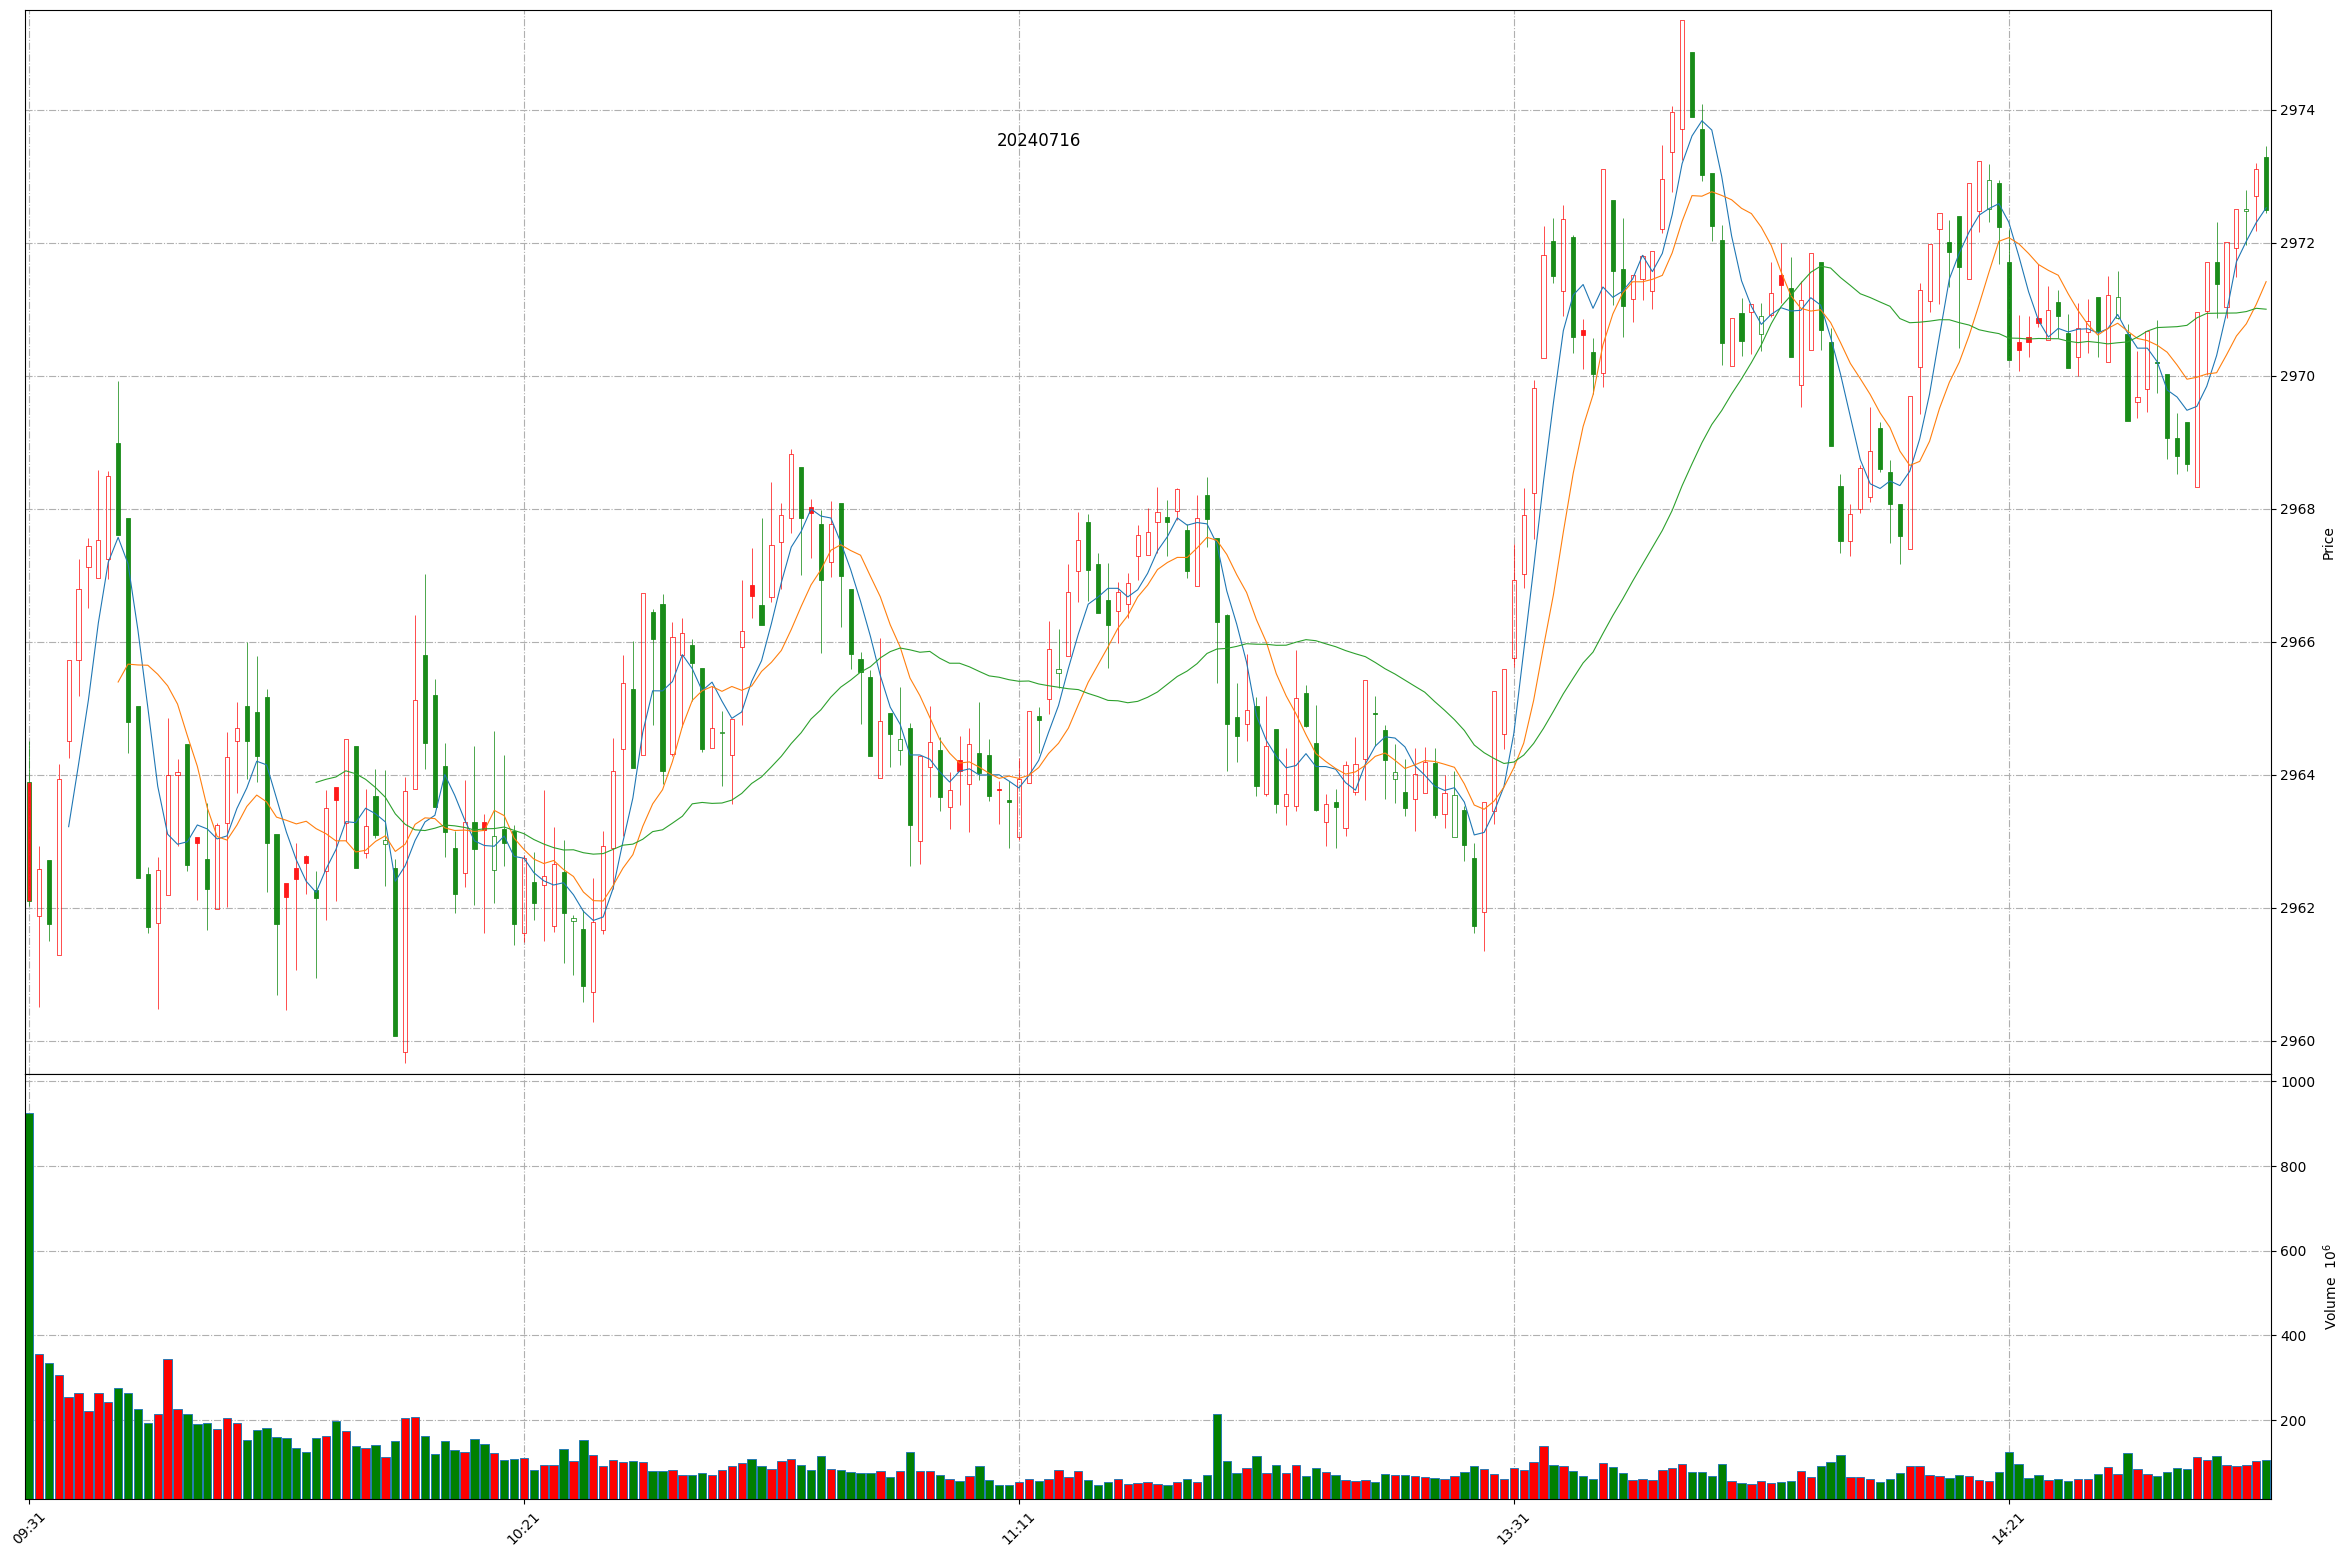
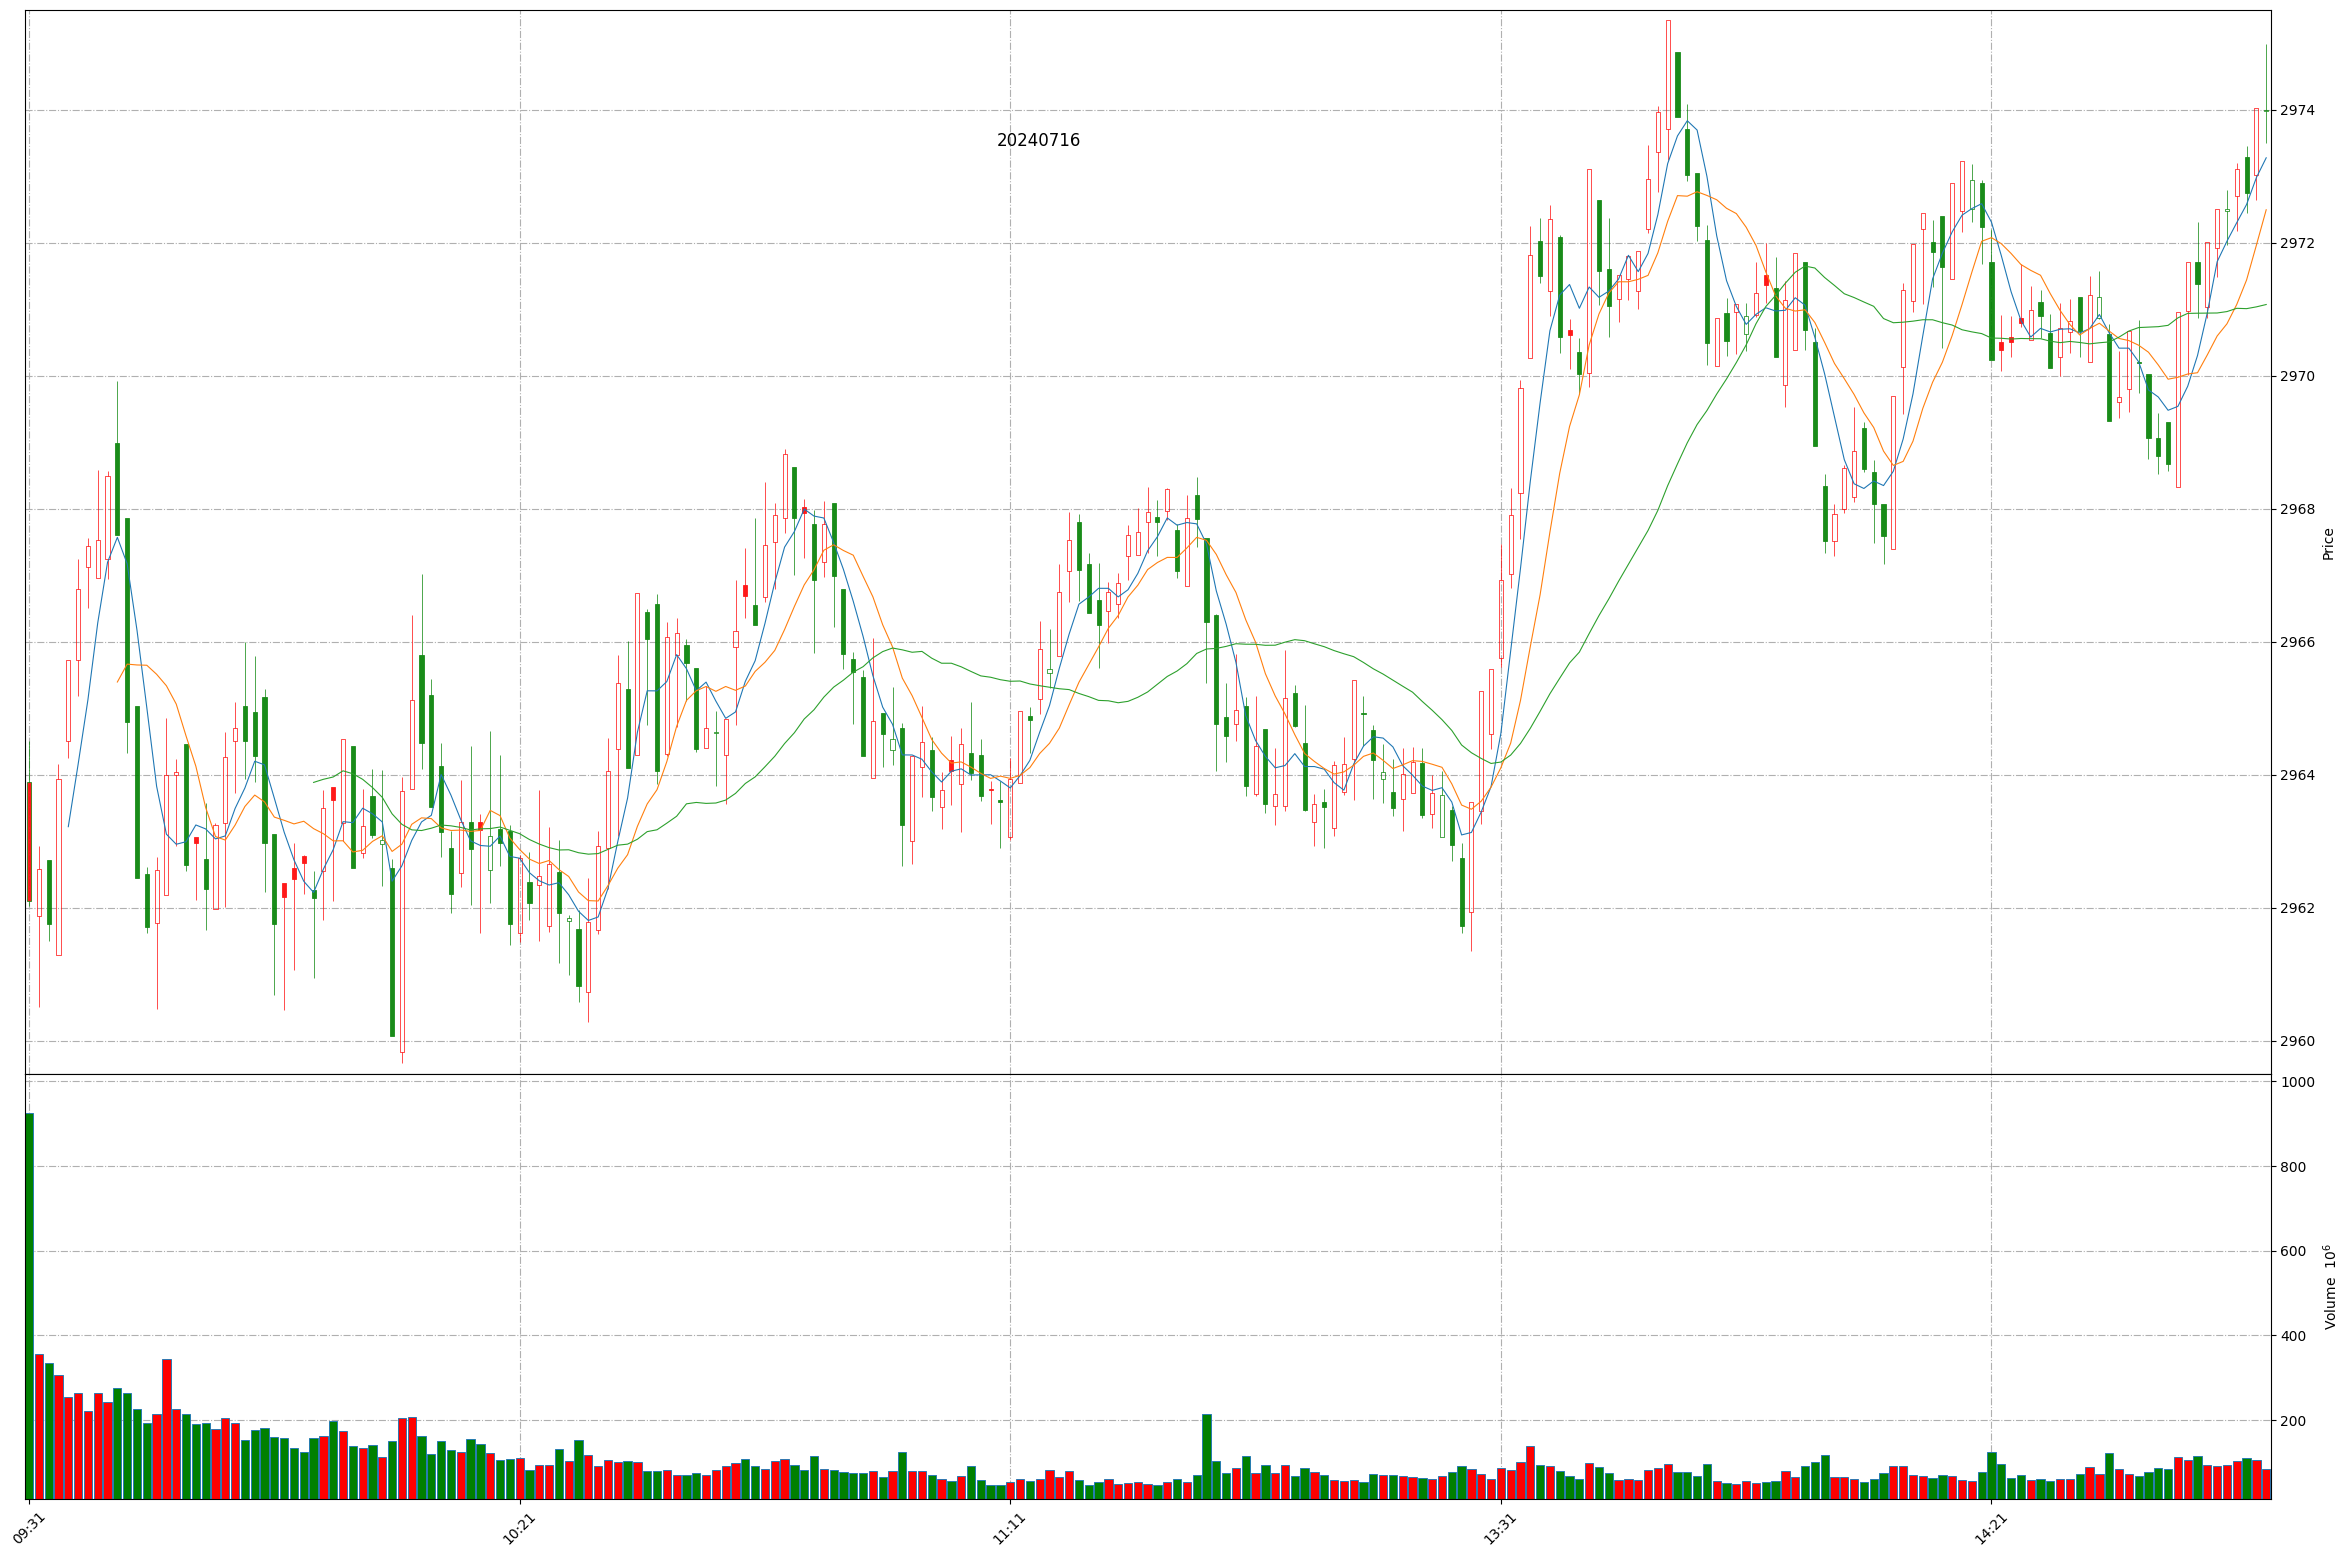
Github action update at 2024-07-16 14:49:05.

diff --git a/README.md b/README.md
@@ -1,11 +1,11 @@
 
 # Daily-A-share-market-quotes 每日 A 股指数（5min 更新）- 20240716
 
-### 上证指数 20240716 14:47
+### 上证指数 20240716 14:49
 ![](./fig/2024/7/20240716-sh000001.png)
 
-### 深证成指 20240716 14:47
+### 深证成指 20240716 14:49
 ![](./fig/2024/7/20240716-sz399001.png)
 
-### 北证50 20240716 14:47
+### 北证50 20240716 14:49
 ![](./fig/2024/7/20240716-bj899050.png)
